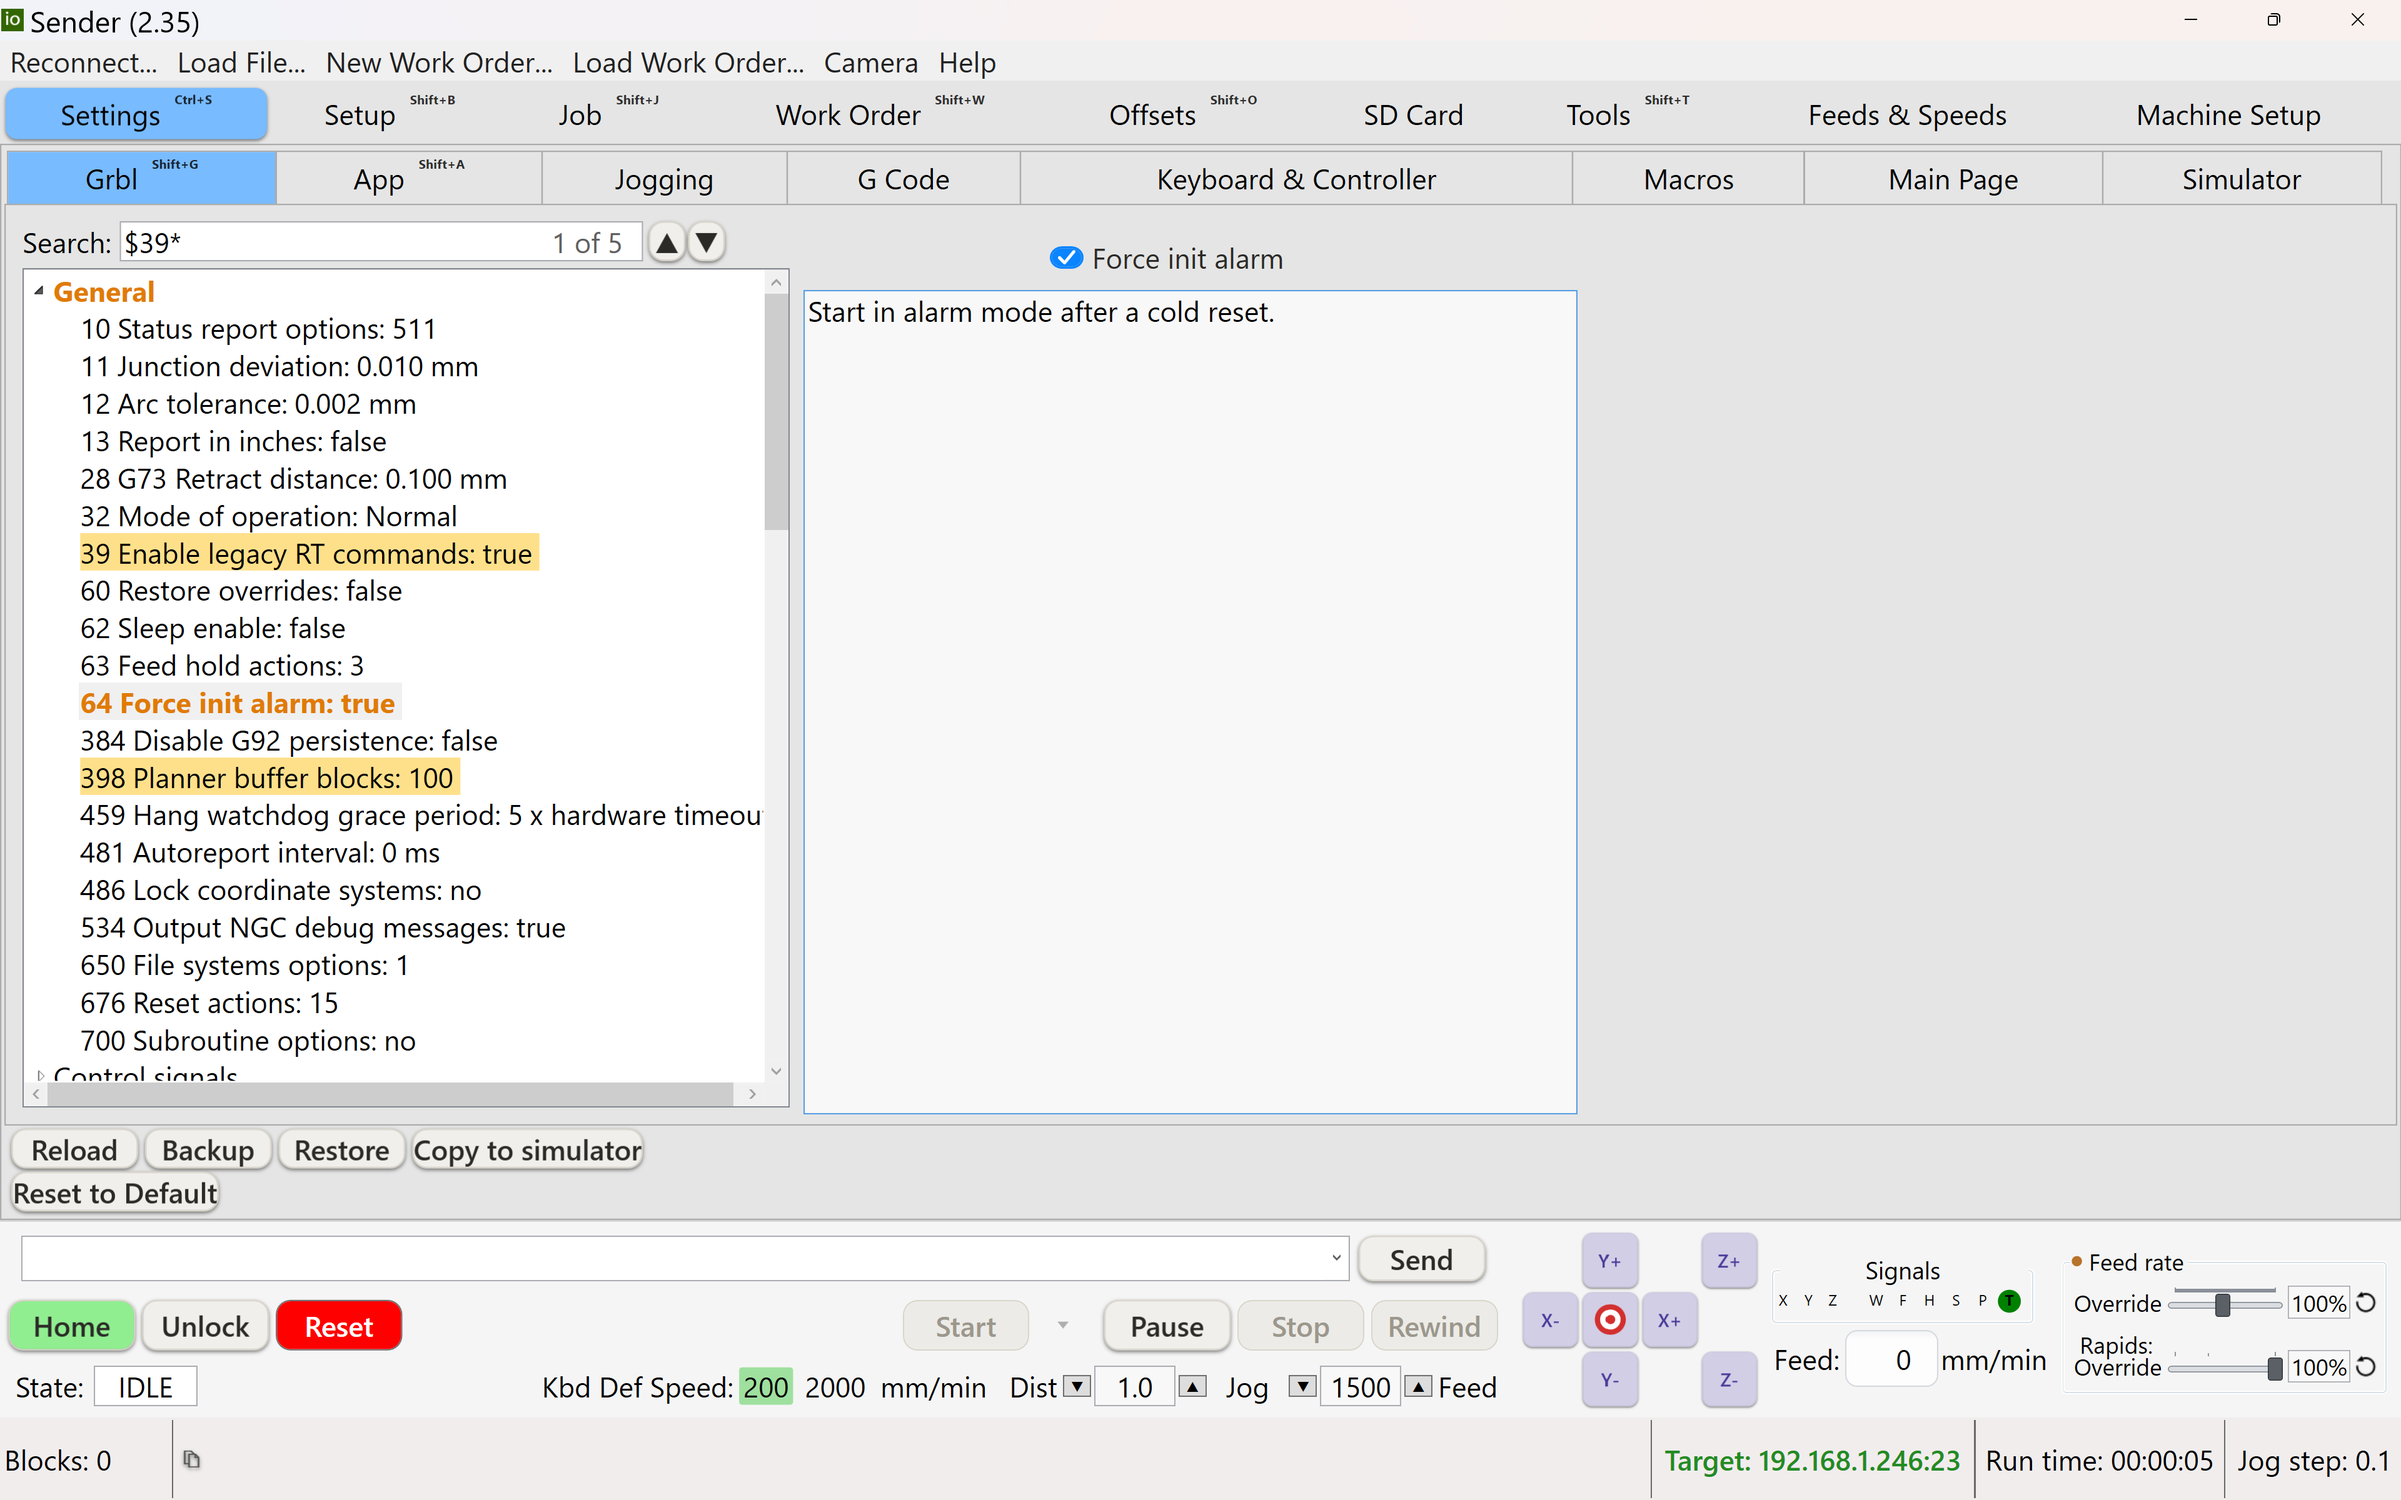
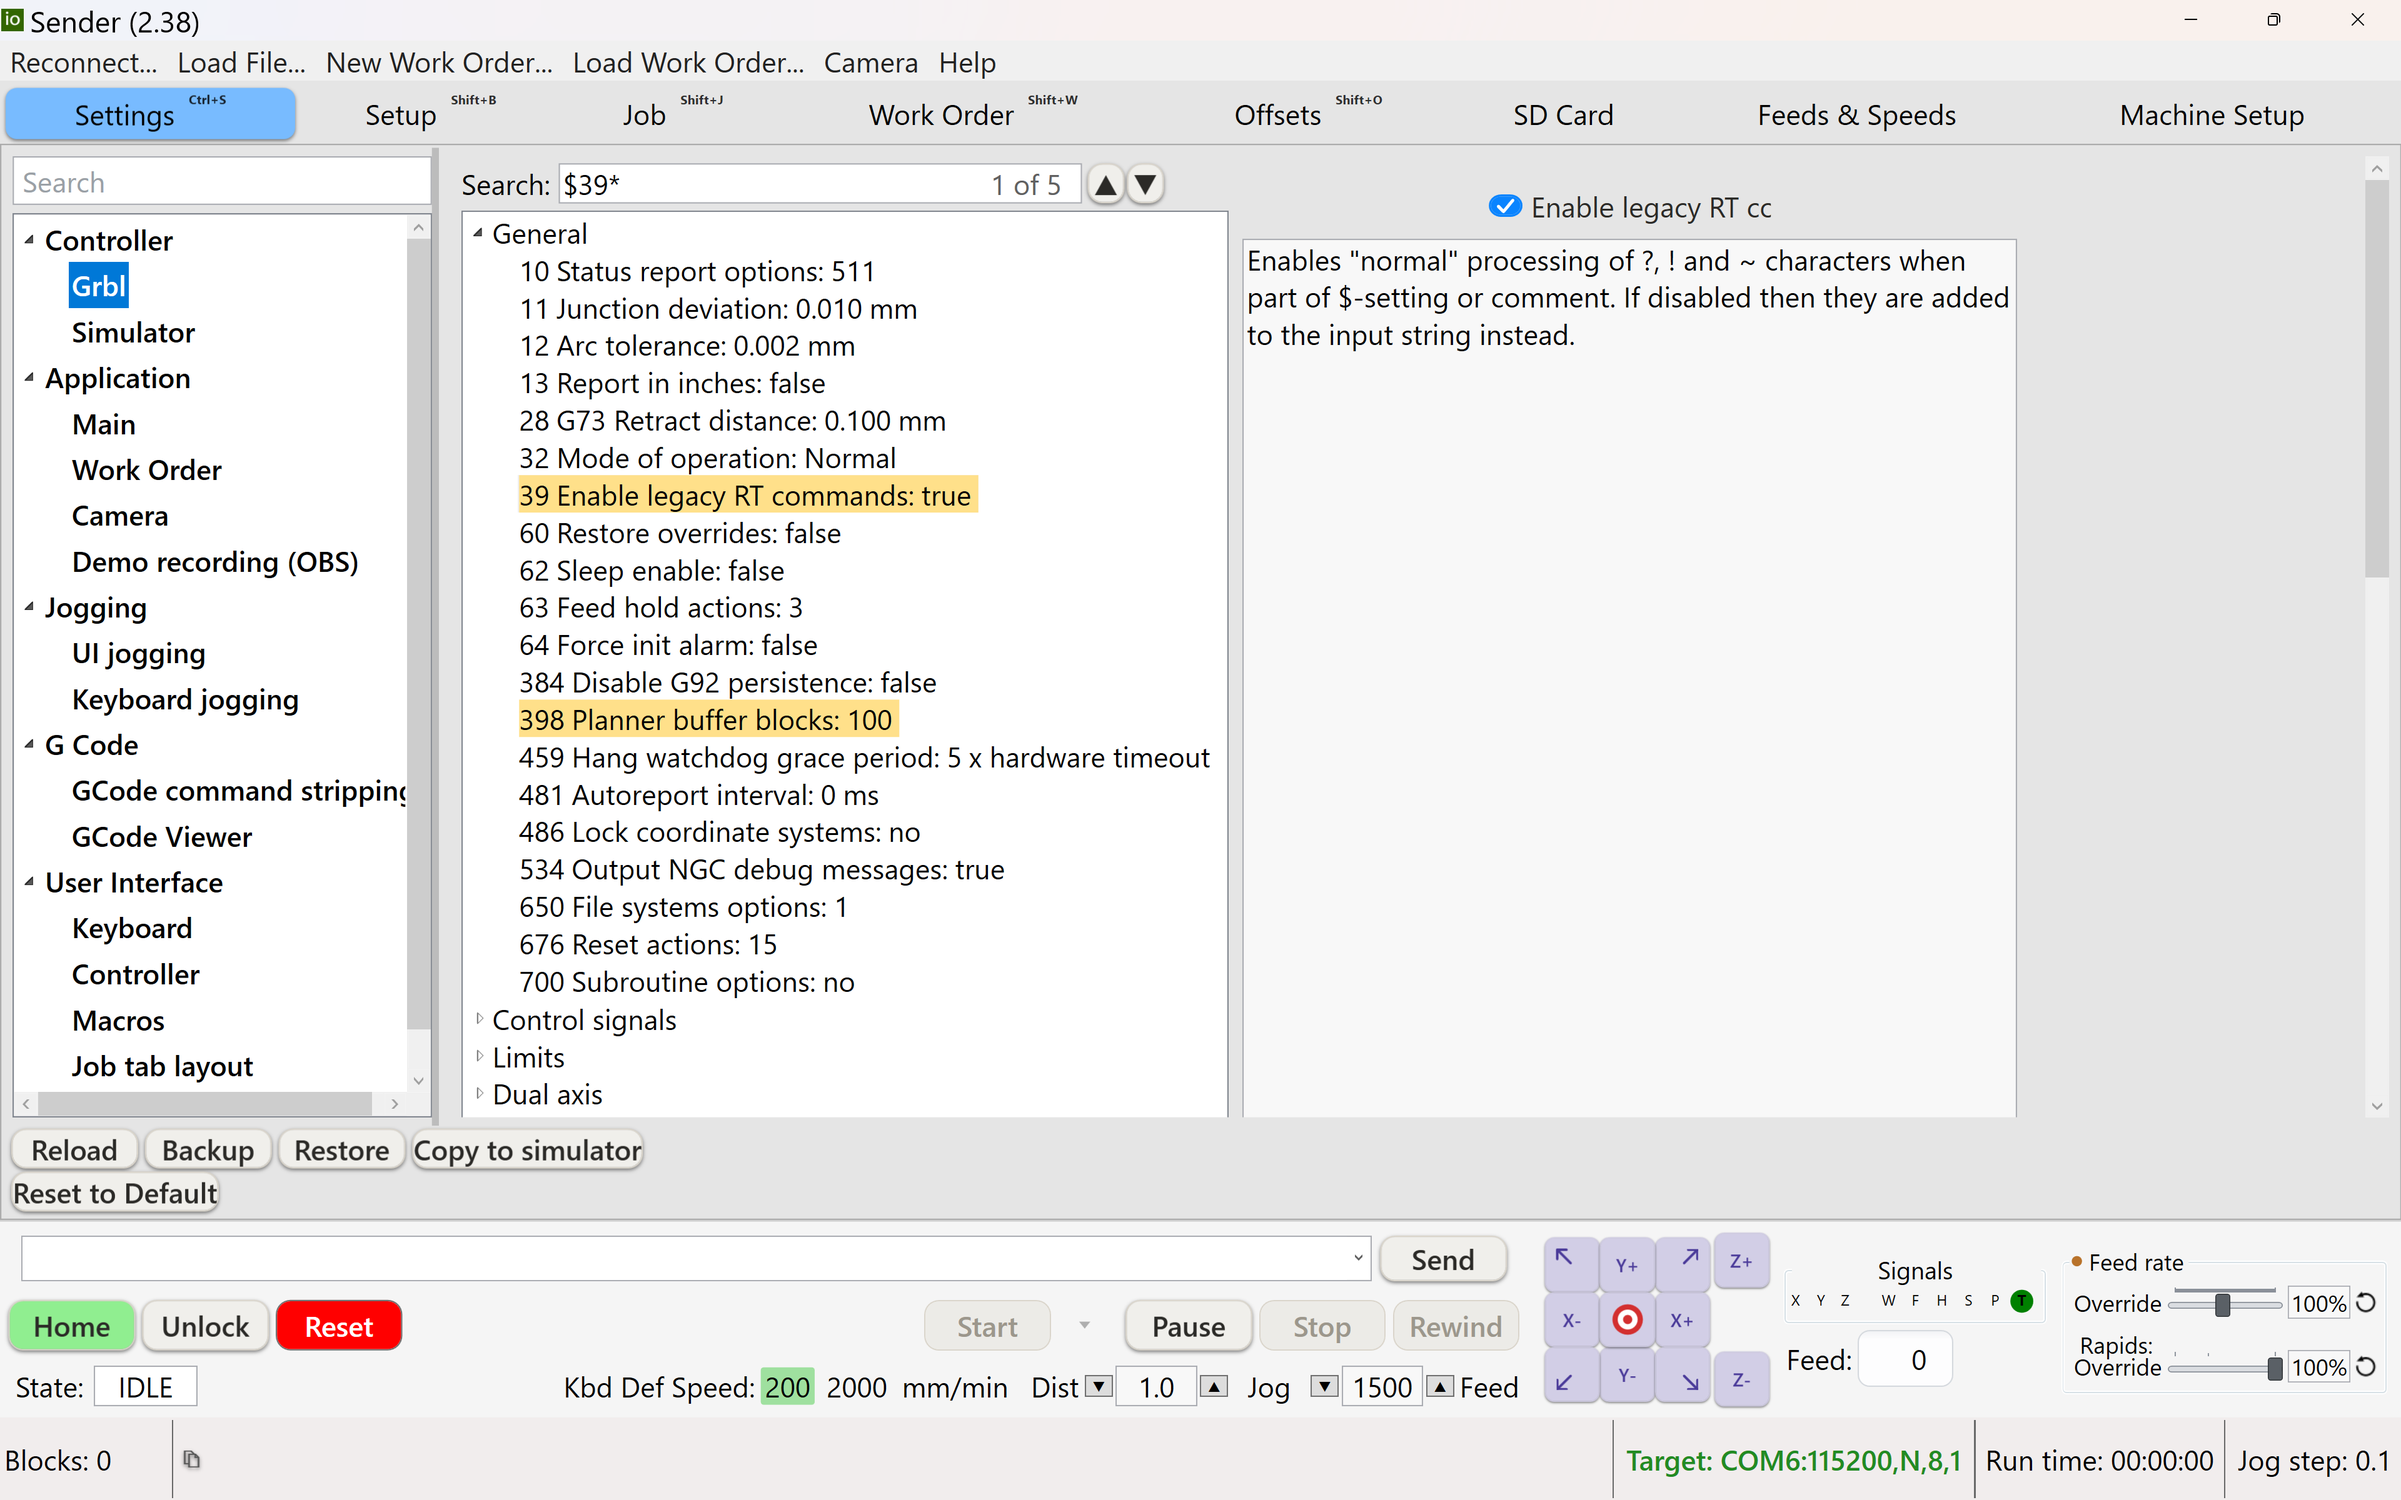
Manual: reshoot settings-grbl.png for the navigation tree
Replaces the pre-#208 tab-strip shot. Shows the five-category tree with
the Grbl page selected, keeping its own $-search ($39*, "1 of 5") and
change highlighting - which is the distinction the topic text spends a
callout explaining.

Having the real tree in front of me corrected three category blurbs I had
written from the source: Application splits into Main / Work Order /
Camera / Demo recording, Jogging into UI and Keyboard jogging, and G Code
into command stripping and the viewer.

diff --git a/docs/manual/_image-review.html b/docs/manual/_image-review.html
@@ -24,12 +24,11 @@ h1 { font-size:16px; font-weight:600; margin:0 0 4px; }
 .pill.current { background:#2ecc71; color:#132; }
 </style></head>
 <body>
-<h1>Manual screenshot status - 2 reshoot &middot; 3 wanted &middot; 4 orphaned &middot; 11 current</h1>
-<div class="sub">generated 2026-08-03 07:12 by tools\gen-image-review.ps1 &middot; status derived from docs/manual/index.html
+<h1>Manual screenshot status - 1 reshoot &middot; 3 wanted &middot; 4 orphaned &middot; 12 current</h1>
+<div class="sub">generated 2026-08-03 07:24 by tools\gen-image-review.ps1 &middot; status derived from docs/manual/index.html
 plus the $Wanted / $Reshoot tables in that script</div>
 <div class="grid">
 <div class='card reshoot'><img src='img/machine-setup-overview.png' loading='lazy'><div class='cap'><span class='pill reshoot'>reshoot</span> machine-setup-overview.png<br><span class='mtime'>2026-07-29 10:05:24</span><br><span class='note'>dead - shot before #208, and the step count went from eight to nine (#197 Calibration)</span></div></div>
-<div class='card reshoot'><img src='img/settings-grbl.png' loading='lazy'><div class='cap'><span class='pill reshoot'>reshoot</span> settings-grbl.png<br><span class='mtime'>2026-08-01 06:23:32</span><br><span class='note'>dead - shot before #208 replaced the tab strip with the navigation tree</span></div></div>
 <div class='card wanted'><div class='ph'>shot needed</div><div class='cap'><span class='pill wanted'>wanted</span> machine-setup-calibration.png<br><span class='note'>Machine Setup &gt; 8 - Calibration &gt; Stepper: fixture pick, true/measured size, new steps/mm</span></div></div>
 <div class='card wanted'><div class='ph'>shot needed</div><div class='cap'><span class='pill wanted'>wanted</span> settings-search.png<br><span class='note'>the Settings search box with a term typed - match count visible, ideally a &quot;Matched tooltip:&quot; hit</span></div></div>
 <div class='card wanted'><div class='ph'>shot needed</div><div class='cap'><span class='pill wanted'>wanted</span> work-order-surface.png<br><span class='note'>a Work Order with a Surface toolpath selected, Entire Spoilboard ticked</span></div></div>
@@ -45,6 +44,7 @@ plus the $Wanted / $Reshoot tables in that script</div>
 <div class='card current'><img src='img/lathe-wizard.png' loading='lazy'><div class='cap'><span class='pill current'>current</span> lathe-wizard.png<br><span class='mtime'>2026-07-29 10:05:24</span></div></div>
 <div class='card current'><img src='img/offsets-table.png' loading='lazy'><div class='cap'><span class='pill current'>current</span> offsets-table.png<br><span class='mtime'>2026-08-01 05:59:46</span></div></div>
 <div class='card current'><img src='img/sdcard.png' loading='lazy'><div class='cap'><span class='pill current'>current</span> sdcard.png<br><span class='mtime'>2026-08-01 06:06:17</span></div></div>
+<div class='card current'><img src='img/settings-grbl.png' loading='lazy'><div class='cap'><span class='pill current'>current</span> settings-grbl.png<br><span class='mtime'>2026-08-03 07:23:18</span></div></div>
 <div class='card current'><img src='img/setup-dynamic-geometry.png' loading='lazy'><div class='cap'><span class='pill current'>current</span> setup-dynamic-geometry.png<br><span class='mtime'>2026-08-01 05:55:36</span></div></div>
 <div class='card current'><img src='img/start-job-panel.png' loading='lazy'><div class='cap'><span class='pill current'>current</span> start-job-panel.png<br><span class='mtime'>2026-08-01 04:35:44</span></div></div>
 <div class='card current'><img src='img/work-order.png' loading='lazy'><div class='cap'><span class='pill current'>current</span> work-order.png<br><span class='mtime'>2026-08-01 04:39:19</span></div></div>

diff --git a/docs/manual/index.html b/docs/manual/index.html
@@ -1301,9 +1301,9 @@
     <table class="reftab">
       <tr><th>Category</th><th>Pages</th></tr>
       <tr><td><strong>Controller</strong></td><td><strong>Grbl</strong> — every <code>$</code> setting the controller has, with its own group tree and <code>$</code>-search (see below). <strong>Simulator</strong> — build and manage the bundled option-matched grblHAL simulator (see <a href="#connect">Connect</a> and <a href="#machine-setup">Machine Setup</a>), also reachable at startup via the <code>-simulator</code> command-line flag.</td></tr>
-      <tr><td><strong>Application</strong></td><td>ioSender's own preferences, one page per panel — colours and behaviour, the lathe-mode switch (see <a href="#lathe">Lathe</a>), <strong>Camera</strong>, and <strong>Demo recording (OBS)</strong>.</td></tr>
-      <tr><td><strong>Jogging</strong></td><td>Jog steps and feeds, the jog-pad UI options, and mirroring them to the controller's firmware jog (<code>$5x</code>). See <a href="#jogging">Jogging</a>.</td></tr>
-      <tr><td><strong>G Code</strong></td><td>How g-code is sent and interpreted, including the strip/filter options.</td></tr>
+      <tr><td><strong>Application</strong></td><td>ioSender's own preferences, one page per panel — <strong>Main</strong> (colours, behaviour, the lathe-mode switch — see <a href="#lathe">Lathe</a>), <strong>Work Order</strong>, <strong>Camera</strong> and <strong>Demo recording (OBS)</strong>.</td></tr>
+      <tr><td><strong>Jogging</strong></td><td><strong>UI jogging</strong> and <strong>Keyboard jogging</strong> — jog steps and feeds for each, and mirroring them to the controller's firmware jog (<code>$5x</code>). See <a href="#jogging">Jogging</a>.</td></tr>
+      <tr><td><strong>G Code</strong></td><td><strong>GCode command stripping</strong> (what gets filtered on the way out) and <strong>GCode Viewer</strong> (how the <a href="#gcode-viewer">3D view</a> draws it).</td></tr>
       <tr><td><strong>User Interface</strong></td><td><strong>Keyboard</strong> and <strong>Controller</strong> (game-controller bindings), <strong>Macros</strong>, <strong>Job tab layout</strong>, and <strong>Top-level tabs</strong>.</td></tr>
     </table>
     <figure>
